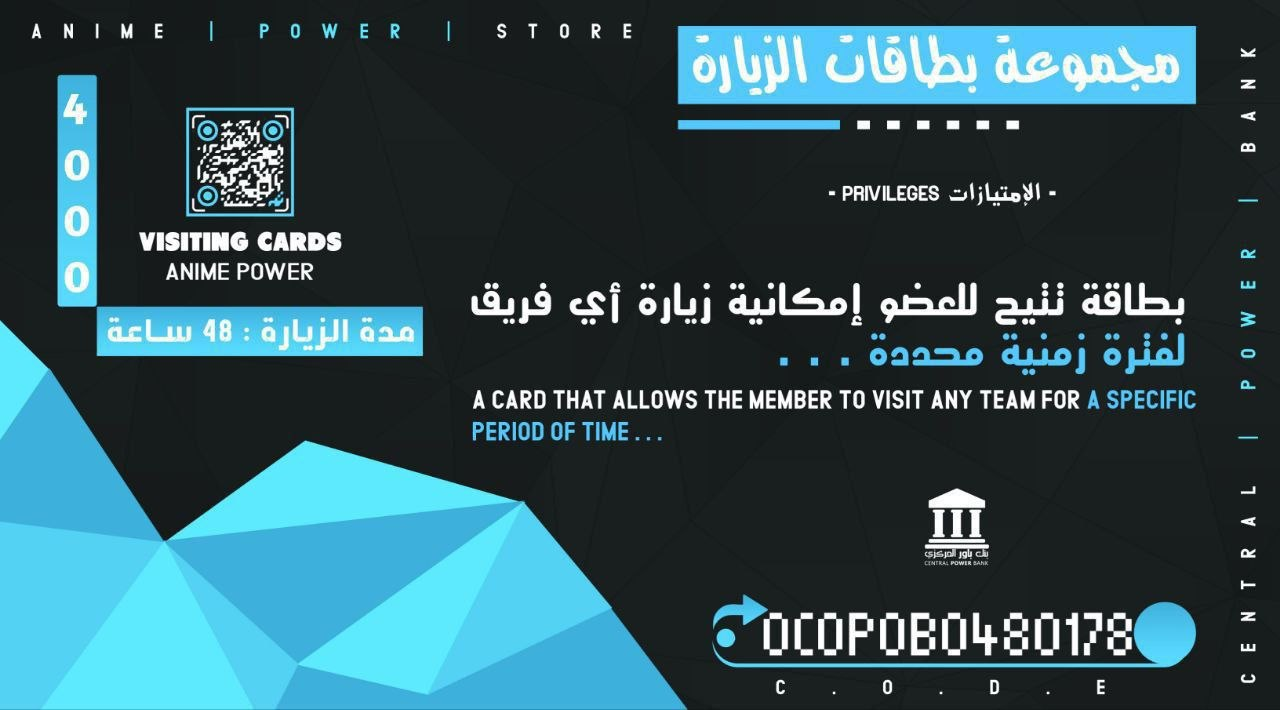
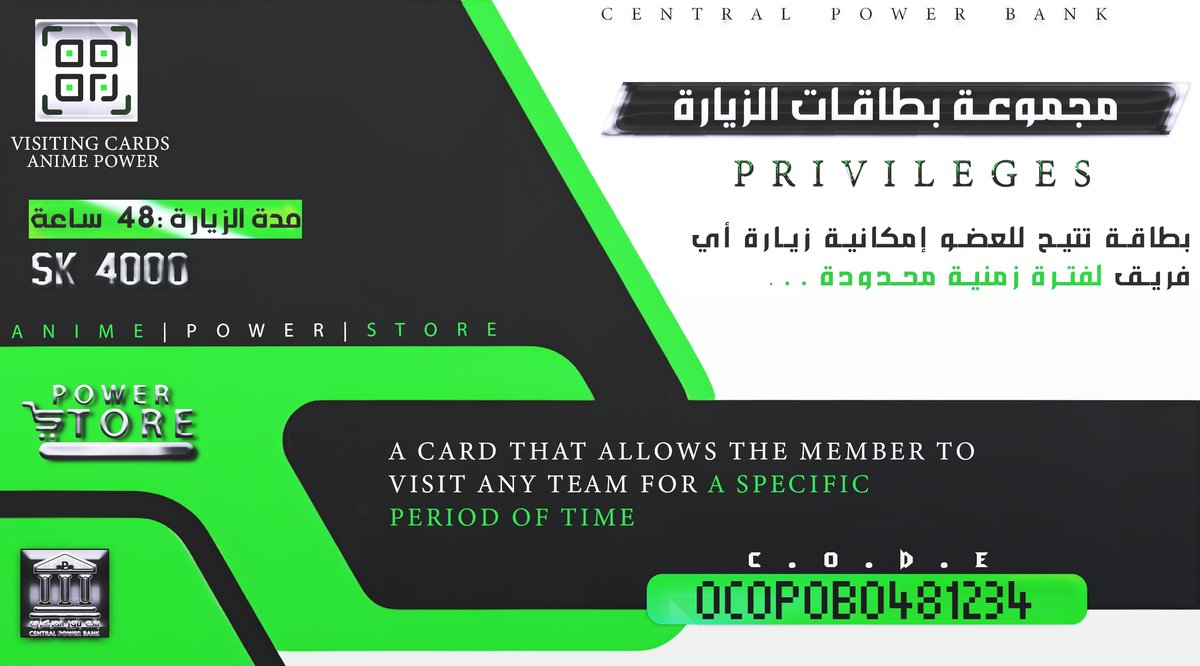
Redesign the 24/48/72h visit store cards with a centred, stretched code
New artwork for the three visit cards. The code is now centred in the code
bar and scaled horizontally to a fixed width via a new `stretch_to` layout
option in the render engine; white on the dark 24h bar, near-black on the
bright green (48h) and yellow (72h) bars.

diff --git a/powerbank/render/engine.py b/powerbank/render/engine.py
@@ -57,6 +57,11 @@ class Field:
     `anchor` is a Pillow text anchor for the point: the default ``"mm"`` centres
     the value in its bar, while ``"lm"`` pins its left edge -- for a value that
     must start right after a label baked into the art, whatever its length.
+
+    `stretch_to`, when set, draws the value at exactly `font_size` and then
+    scales it horizontally to that many pixels wide, centred on the point --
+    for a fixed-length code that should span its bar the same way every time.
+    `max_width` and `anchor` are ignored for such a field.
     """
 
     x: int
@@ -65,6 +70,7 @@ class Field:
     font_size: int
     font: str | None = None
     anchor: str = "mm"
+    stretch_to: int | None = None
 
     @classmethod
     def from_dict(cls, raw: dict) -> Field:
@@ -75,6 +81,7 @@ class Field:
             font_size=raw["font_size"],
             font=raw.get("font"),
             anchor=raw.get("anchor", "mm"),
+            stretch_to=raw.get("stretch_to"),
         )
 
 
@@ -222,6 +229,27 @@ def _draw_value(
     image.paste(ramp, (left, top), mask)
 
 
+def _draw_stretched(
+    image: Image.Image,
+    xy: tuple[int, int],
+    text: str,
+    font: ImageFont.FreeTypeFont,
+    width: int,
+    color: tuple[int, int, int],
+) -> None:
+    """`text` scaled horizontally to exactly `width` px, centred on `xy`.
+
+    Pillow cannot stretch glyphs, so the text is drawn into a tight mask at its
+    natural width, the mask is resized, and the colour is poured through it.
+    """
+    left, top, right, bottom = font.getbbox(text)
+    mask = Image.new("L", (right - left, bottom - top), 0)
+    ImageDraw.Draw(mask).text((-left, -top), text, font=font, fill=255)
+    mask = mask.resize((width, mask.height), Image.LANCZOS)
+    origin = (xy[0] - width // 2, xy[1] - mask.height // 2)
+    image.paste(Image.new("RGBA", mask.size, (*color, 255)), origin, mask)
+
+
 def render(layout: Layout, values: dict[str, str]) -> BytesIO:
     """Draw `values` onto the template and return a PNG buffer.
 
@@ -235,6 +263,12 @@ def render(layout: Layout, values: dict[str, str]) -> BytesIO:
         if raw in (None, ""):
             continue
         font_path = str(layout.font_for(name))
+        if field.stretch_to:
+            font = load_font(font_path, field.font_size)
+            _draw_stretched(
+                image, (field.x, field.y), str(raw), font, field.stretch_to, layout.color
+            )
+            continue
         font, text = fit_text(
             draw, str(raw), font_path, field, layout.min_font_size, layout.stroke_width
         )

diff --git a/tests/test_store_cards.py b/tests/test_store_cards.py
@@ -101,13 +101,18 @@ def test_every_type_has_an_existing_template_and_a_code_field():
 
 
 def test_every_type_code_box_sits_inside_its_template():
-    # Left-anchored ("lm"): the box runs from x to x + max_width.
+    # Stretched codes are centred on x and span stretch_to; the rest are
+    # left-anchored ("lm") and run from x to x + max_width.
     for card_type in StoreCardType:
         layout = LAYOUTS[card_type]
         width, height = Image.open(layout.template).size
         field = layout.fields["code"]
-        assert field.anchor == "lm"
-        assert field.x > 0 and field.x + field.max_width <= width, card_type.value
+        if field.stretch_to:
+            half = field.stretch_to // 2
+            assert field.x - half > 0 and field.x + half <= width, card_type.value
+        else:
+            assert field.anchor == "lm"
+            assert field.x > 0 and field.x + field.max_width <= width, card_type.value
         assert 0 < field.y < height, card_type.value
 
 
